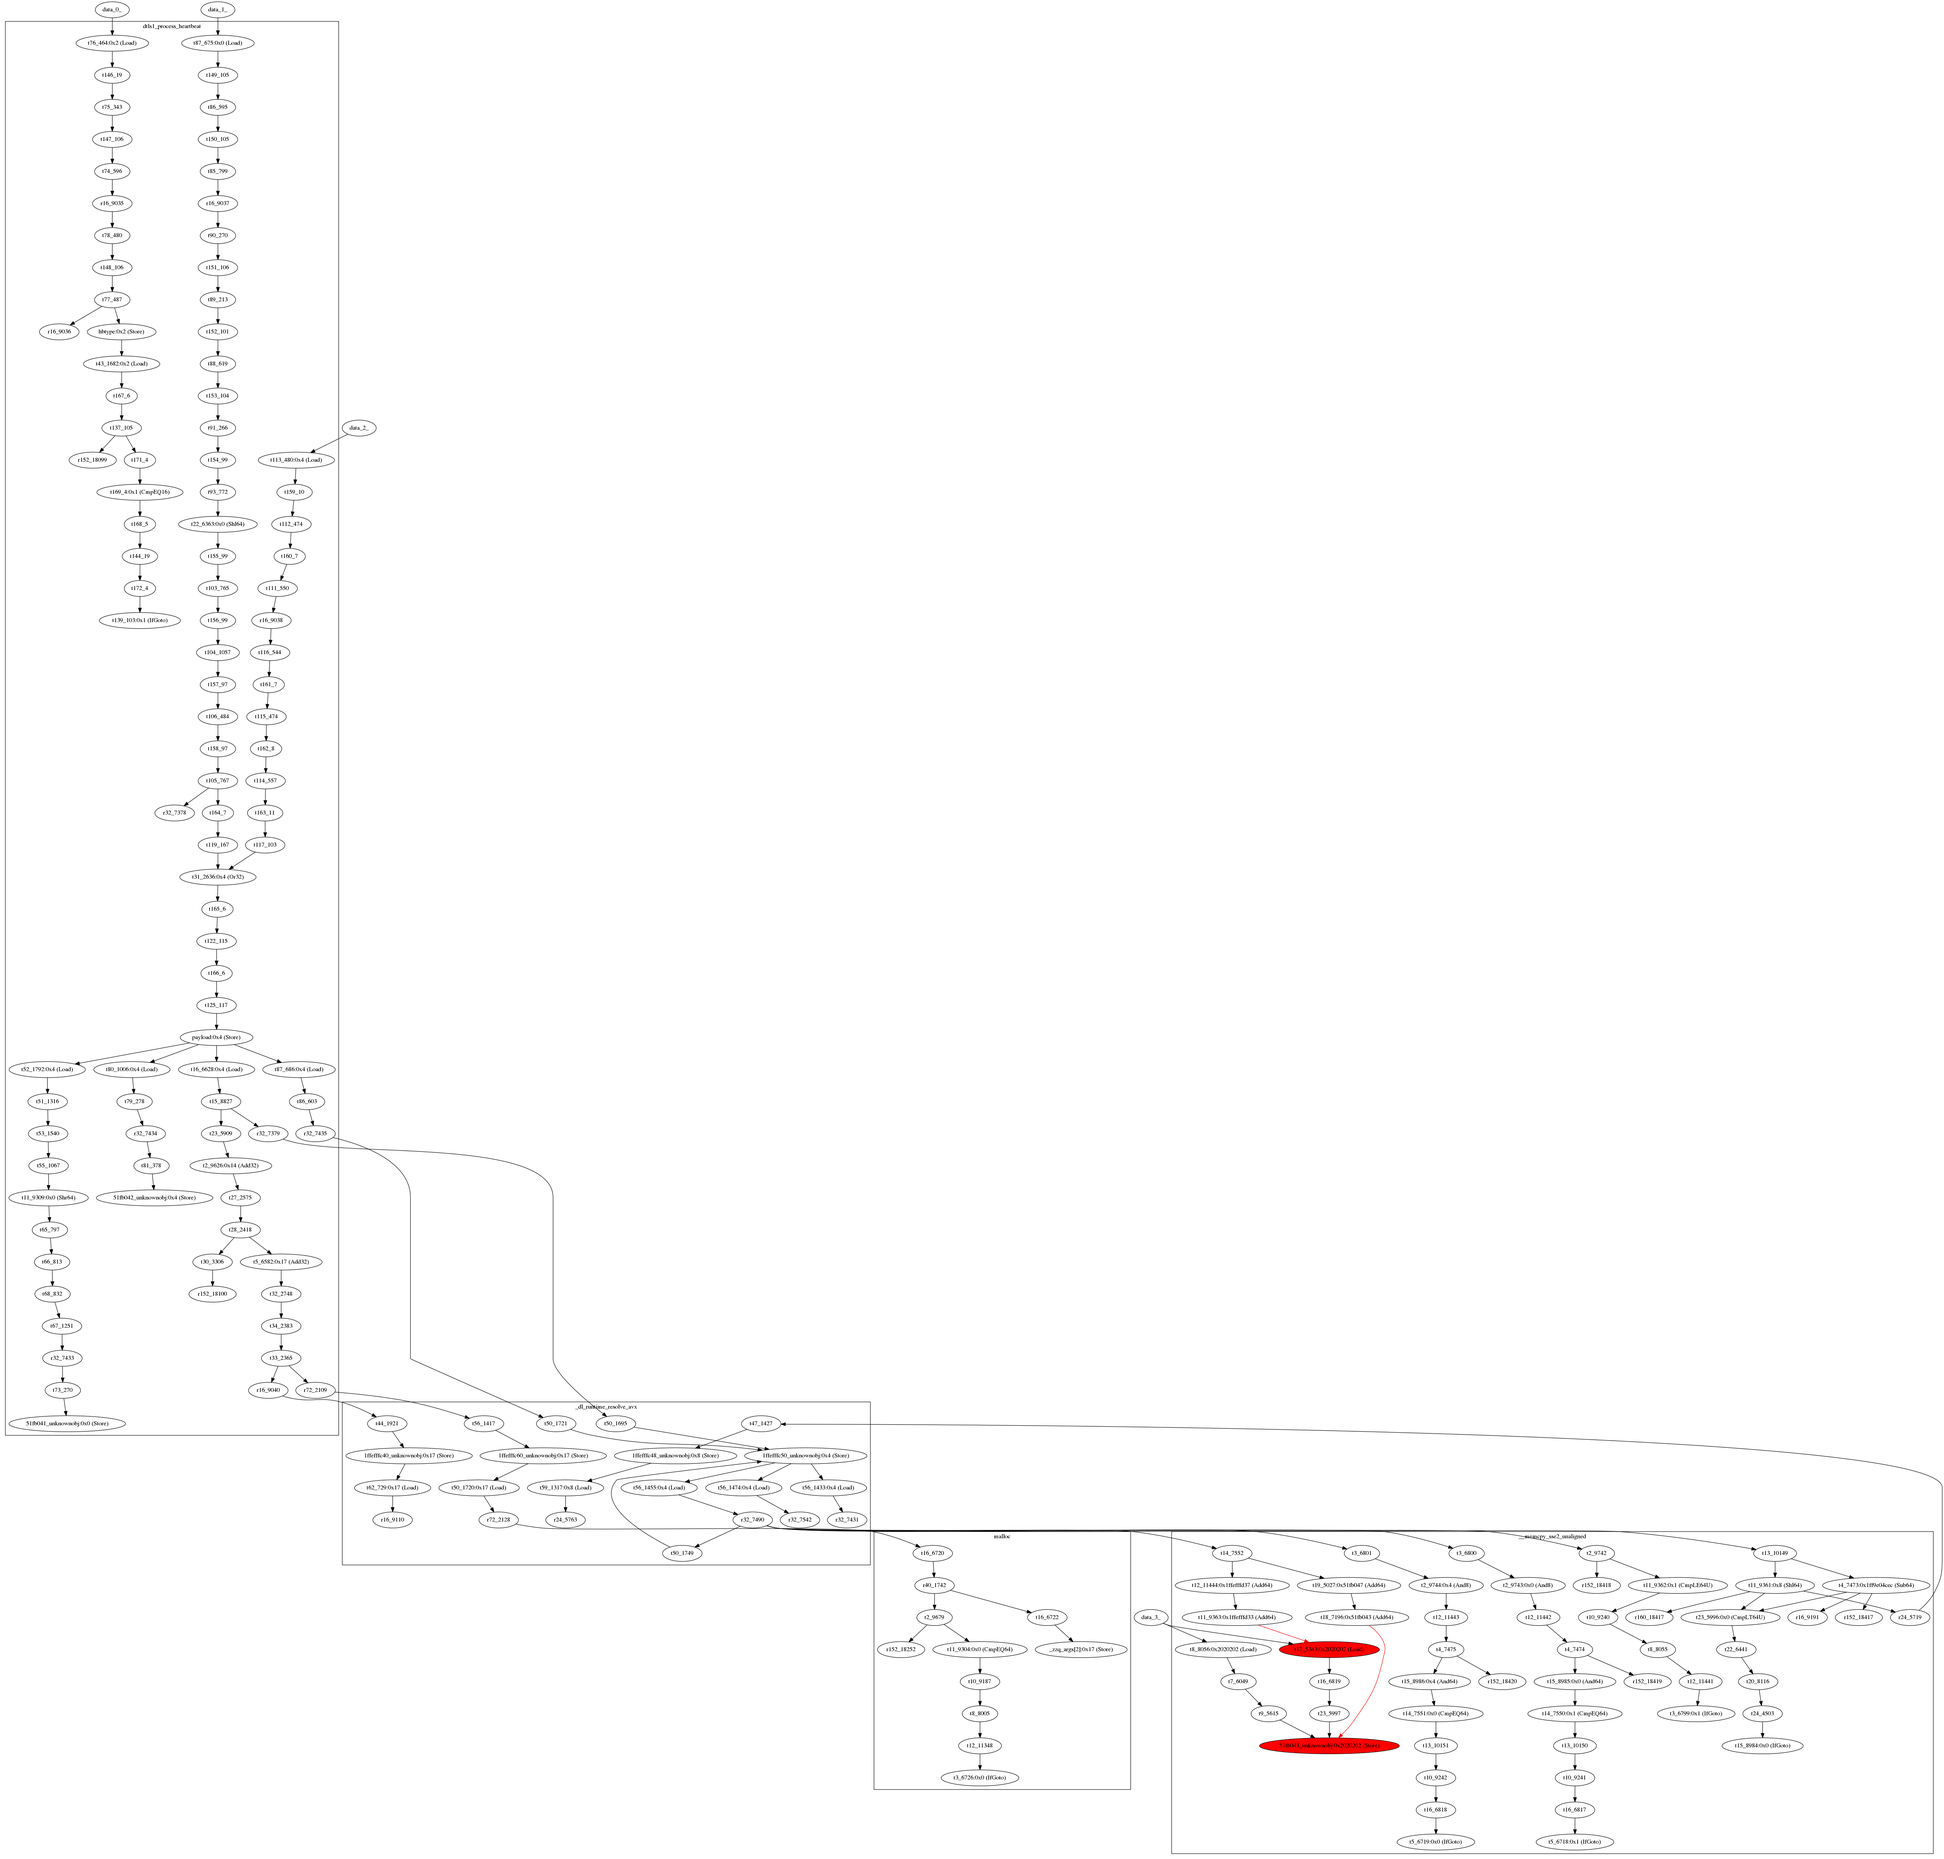
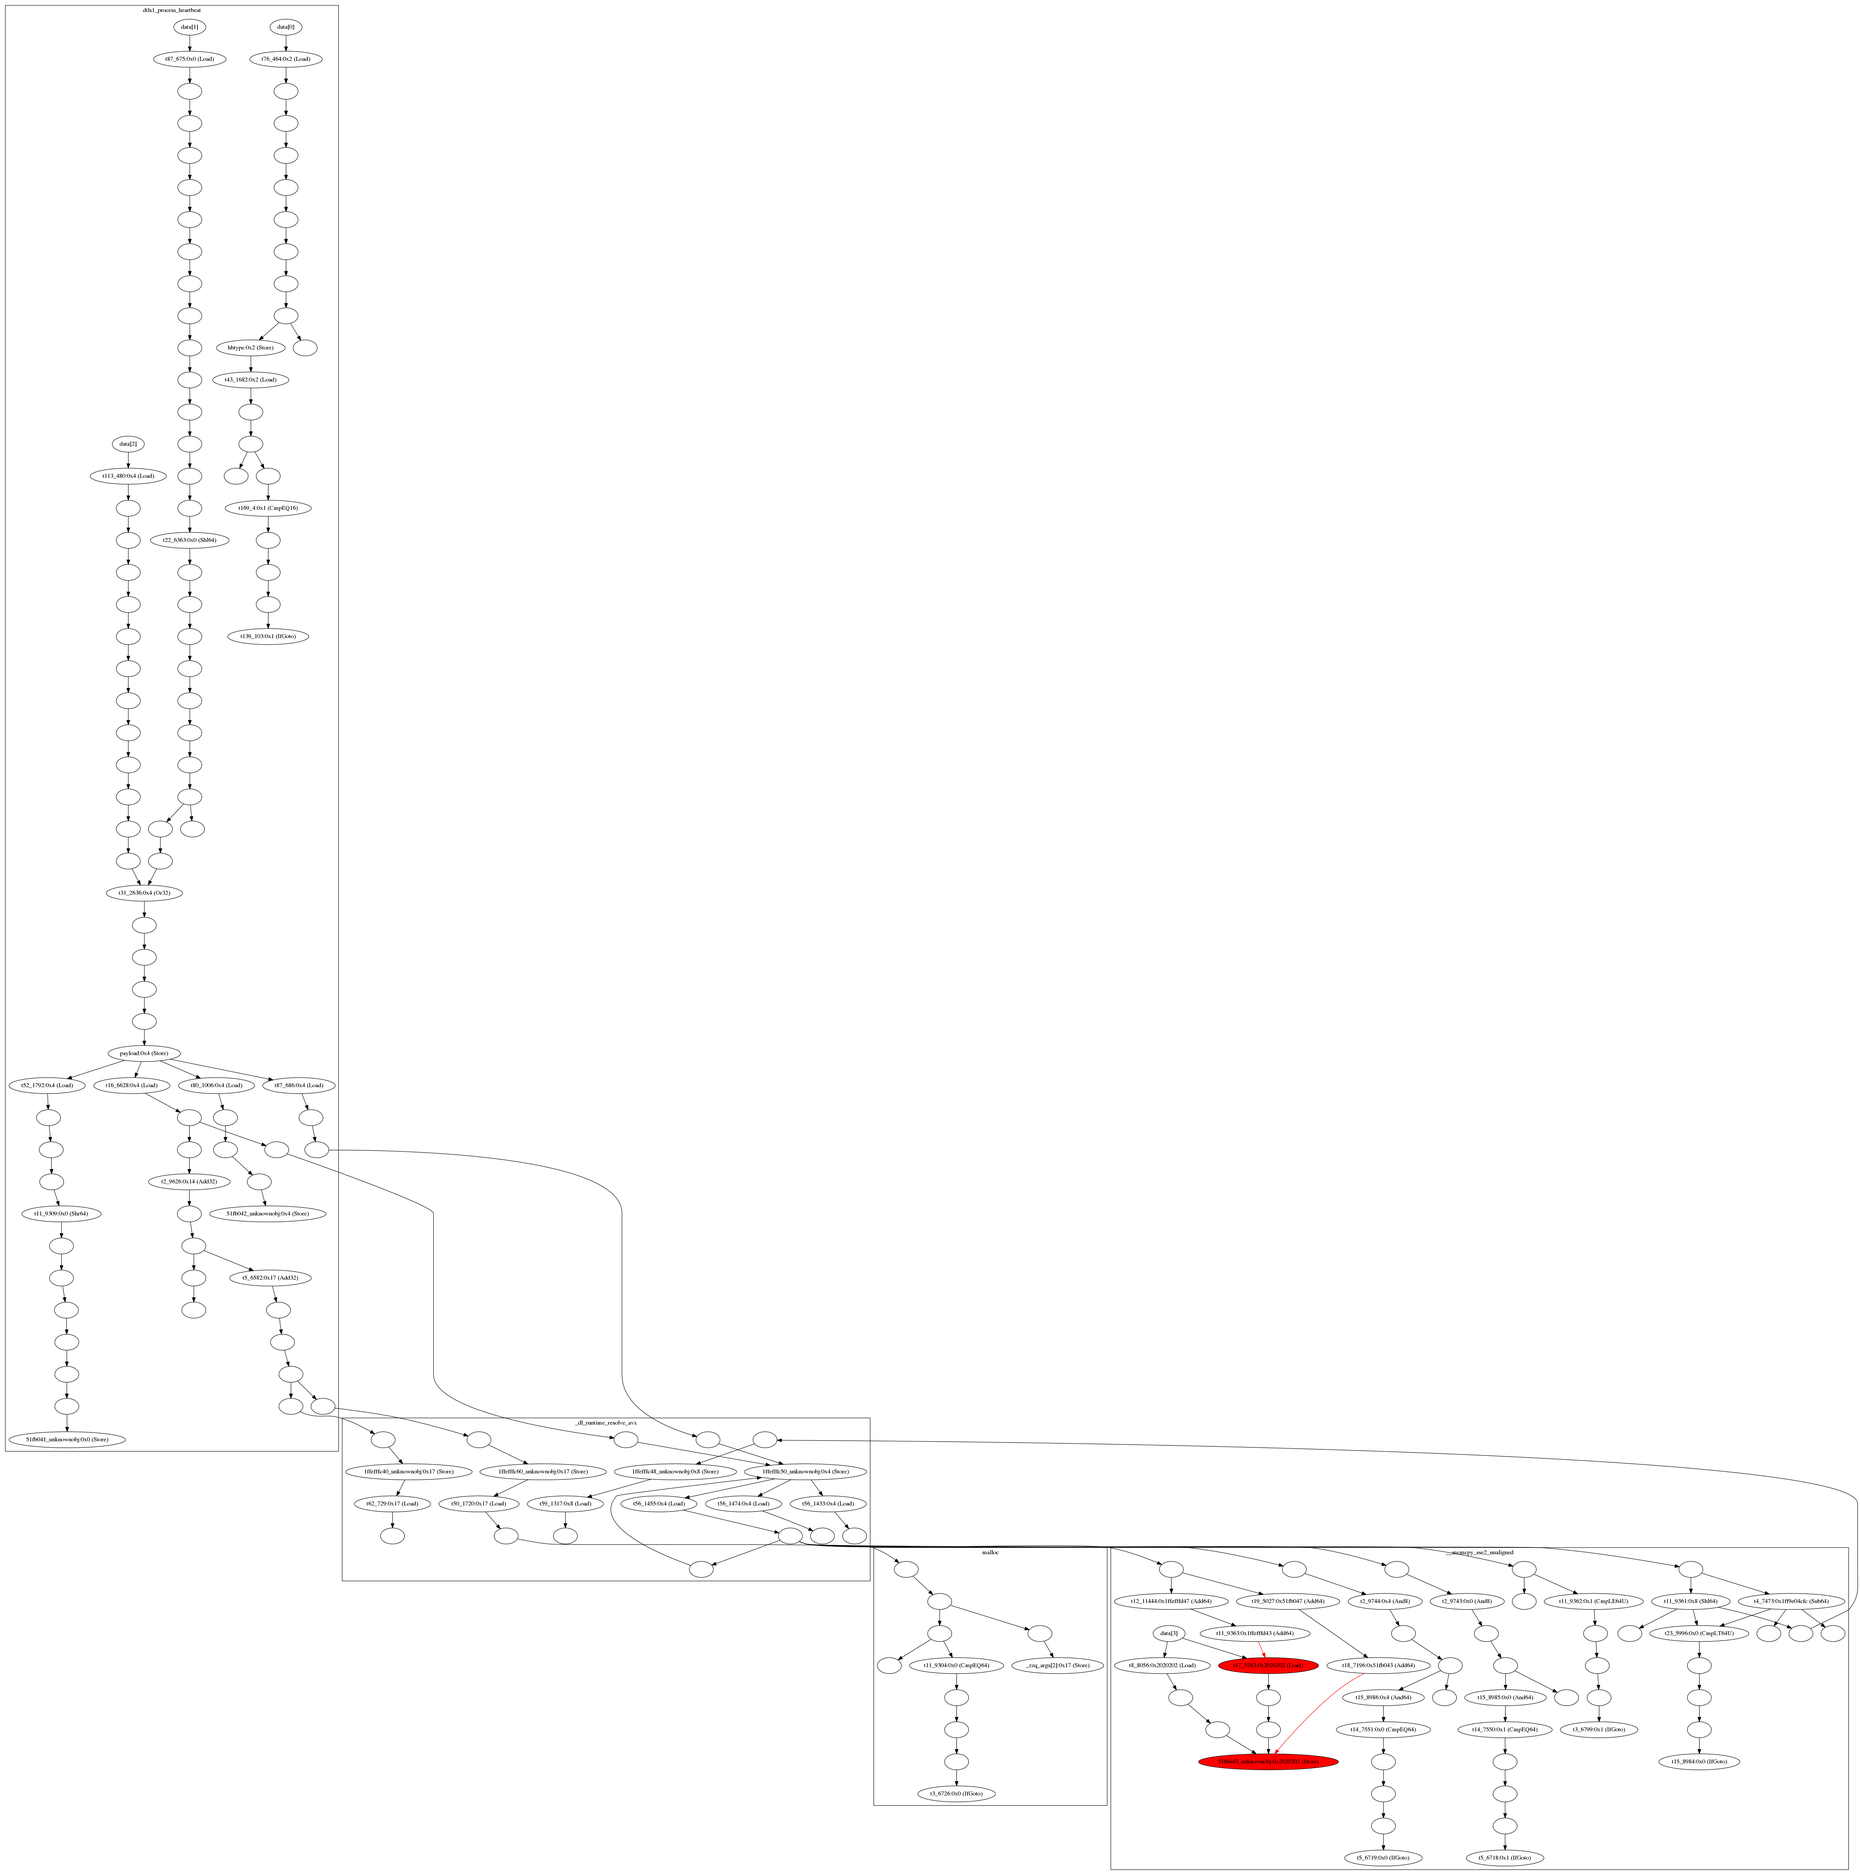
log2dot: Minor tweaks to improve node labels

diff --git a/log2dot.py b/log2dot.py
@@ -21,6 +21,15 @@ def get_loc(line):
     return line.split()[1] 
 
 
+def add_node(g, label, loc):
+    if loc not in g:
+        g[loc] = ""
+
+    g[loc] += "    %s\n" % (label)
+
+    return g
+
+
 # array to store all lines
 data = []
 
@@ -56,8 +65,11 @@ for i in range(len(f)):
 
 
 # Pass 2: Construct the graph; define nodes and edges
+#         Collect the nodes into subgraphs,
+#         Grouped together by function
+subgraph = {}
 edges = []
-nodes = {}
+nodes = []
 
 for line in data:
     addr = ""
@@ -80,6 +92,9 @@ for line in data:
 
     # If there is taint flow
     if len(flow) >= 4:
+        # Get location/function of line
+        loc = get_loc(line)
+
         if "<-" in flow:
             (sink,sources) = flow.split(" <- ")
 
@@ -89,54 +104,48 @@ for line in data:
                     # Direct source
                     edges.append("%s -> %s" % (sanitise_var(source),sanitise_var(sink)))
                     if source not in nodes:
-                        nodes[source] = source
+                        nodes.append(source)
+                        subgraph = add_node(subgraph, "%s [label=\"%s\"]" % (sanitise_var(source), source), loc)
                 else:
                     # Indirect source, colour it red
                     source2 = source[1:-1]
                     edges.append("%s -> %s[color=\"red\"]" % (sanitise_var(source2),sanitise_var(sink)))
                     if source2 not in nodes:
-                        nodes[source2] = source2
+                        nodes.append(source2)
+                        subgraph = add_node(subgraph, "%s [label=\"%s\"]" % (sanitise_var(source2), source2), loc)
 
             vname = sanitise_var(sink)
 
             if (len(sources.split()) > 1) and ("Load" in insnty or "Store" in insnty):
                 # If both address and data to this Load/Store are tainted,
                 # Colour it red
-                nodes[sink] = "%s [label=\"%s:%s (%s)\",fillcolor=red,style=filled]" % (vname,sink,val,insnty)
+                subgraph = add_node(subgraph, "%s [label=\"%s:%s (%s)\",fillcolor=red,style=filled]" % (vname,sink,val,insnty), loc)
             elif val and insnty:
-                nodes[sink] = "%s [label=\"%s:%s (%s)\"]" % (vname,sink,val,insnty)
+                subgraph = add_node(subgraph, "%s [label=\"%s:%s (%s)\"]" % (vname,sink,val,insnty), loc)
             else:
-                nodes[sink] = "%s [label=\"\"]" % (vname)
+                subgraph = add_node(subgraph, "%s [label=\"\"]" % (vname), loc)
+
+            if sink not in nodes:
+                nodes.append(sink)
         elif "Jmp" in insnty:
             vname = sanitise_var(flow)
             # If jump target is tainted, colour it red
-            nodes[flow] = "%s [label=\"%s:%s (%s)\",fillcolor=red,style=filled]" % (vname,flow,val,insnty)
+            subgraph = add_node(subgraph, "%s [label=\"%s:%s (%s)\",fillcolor=red,style=filled]" % (vname,flow,val,insnty), loc)
+
+            if flow not in nodes:
+                nodes.append(flow)
         elif val and insnty:
             vname = sanitise_var(flow)
-            nodes[flow] = "%s [label=\"%s:%s (%s)\"]" % (vname,flow,val,insnty)
+            subgraph = add_node(subgraph, "%s [label=\"%s:%s (%s)\"]" % (vname,flow,val,insnty), loc)
+
+            if flow not in nodes:
+                nodes.append(flow)
         else:
             vname = sanitise_var(flow)
-            nodes[flow] = "%s [label=\"\"]" % (vname)
+            subgraph = add_node(subgraph, "%s [label=\"\"]" % (vname), loc)
 
-
-# Pass 3: Collect the nodes into subgraphs,
-# Grouped together by function
-subgraph = {}
-
-for line in data:
-    flow = line.rstrip().split(" | ")[-1]
-
-    # If there is taint flow
-    if len(flow) >= 4:
-        if "<-" in flow:
-            (sink,sources) = flow.split(" <- ")
-
-            loc = get_loc(line)
-
-            if loc not in subgraph:
-                subgraph[loc] = ""
-            subgraph[loc] += \
-                "    %s\n" % (nodes[sink])
+            if flow not in nodes:
+                nodes.append(flow)
 
 
 # Now we construct the graph
